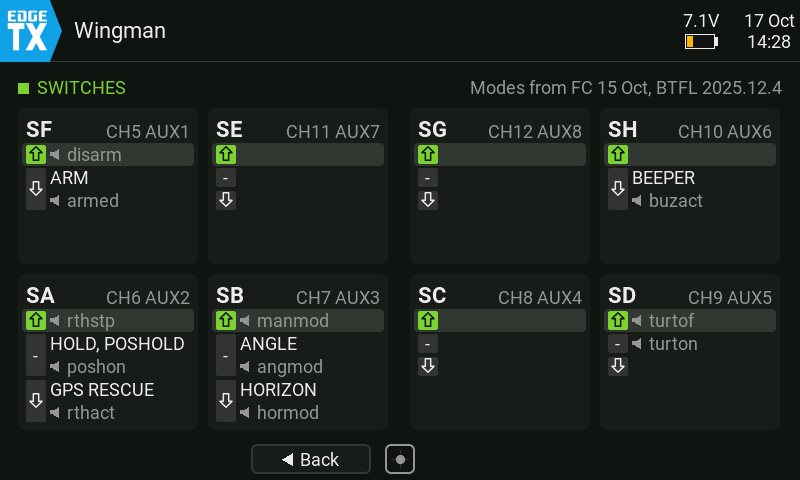
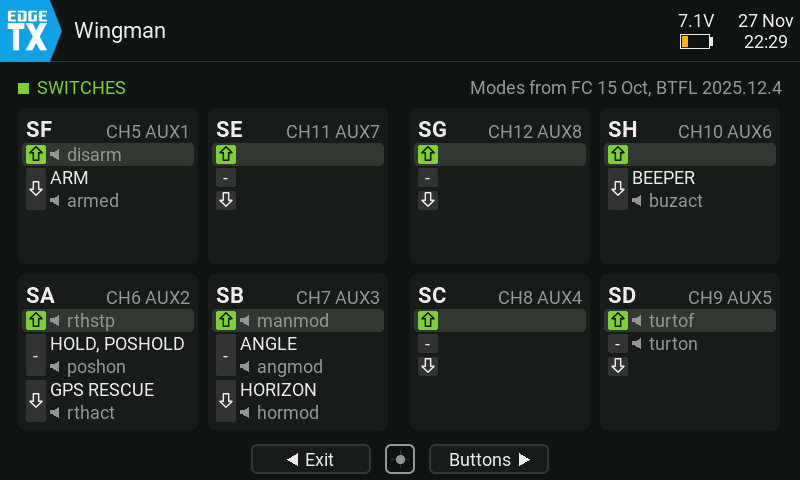
Add button page to the switch page
- Switch page: second page BUTTONS with the customisable buttons SW1 to SW6 (TX15, TX16S MK3), aileron held right turns between the pages
- Switch page opens about twice as fast
- Switch and channel page: left button is called Exit instead of Back
- Arm switch preselection also finds an arm position on a button
- Switch page picture and README carousel updated

Published-From: 72598a7a33edf3e8693afed352d7e2f8a92f6ec3

Changed region(s): [[0.5312, 0.9062, 0.6875, 1.0], [0.8438, 0.0312, 1.0, 0.125], [0.3438, 0.9375, 0.4375, 0.9688]]

diff --git a/README.md b/README.md
@@ -144,7 +144,7 @@ Touch and keys don't reach a widget in App mode, so Flight Wingman uses the stic
 - **Pack selection:** elevator moves the cursor, aileron held right for 1 s confirms. Forgot to choose a pack before arming? Disarm, and the flight page shows the selection again.
 - **Close the search page:** aileron held right for 1 s.
 - **Mute the finder beeps:** on the search page, aileron held left for 1 s (again to unmute); each new search starts with sound.
-- **Waiting page menu:** on the left edge `Last flight` (while there is one), `Switches` and `Channels`. Elevator picks an entry, aileron held right for 1 s opens it; on the switch and channel page aileron held left for 1 s goes back.
+- **Waiting page menu:** on the left edge `Last flight` (while there is one), `Switches` and `Channels`. Elevator picks an entry, aileron held right for 1 s opens it; on the switch and channel page aileron held left for 1 s goes back (`Exit`). On radios with customisable buttons (TX15, TX16S MK3) aileron held right for 1 s on the switch page turns to the button page and back (`Buttons`, `Switches`).
 
 ---
 
